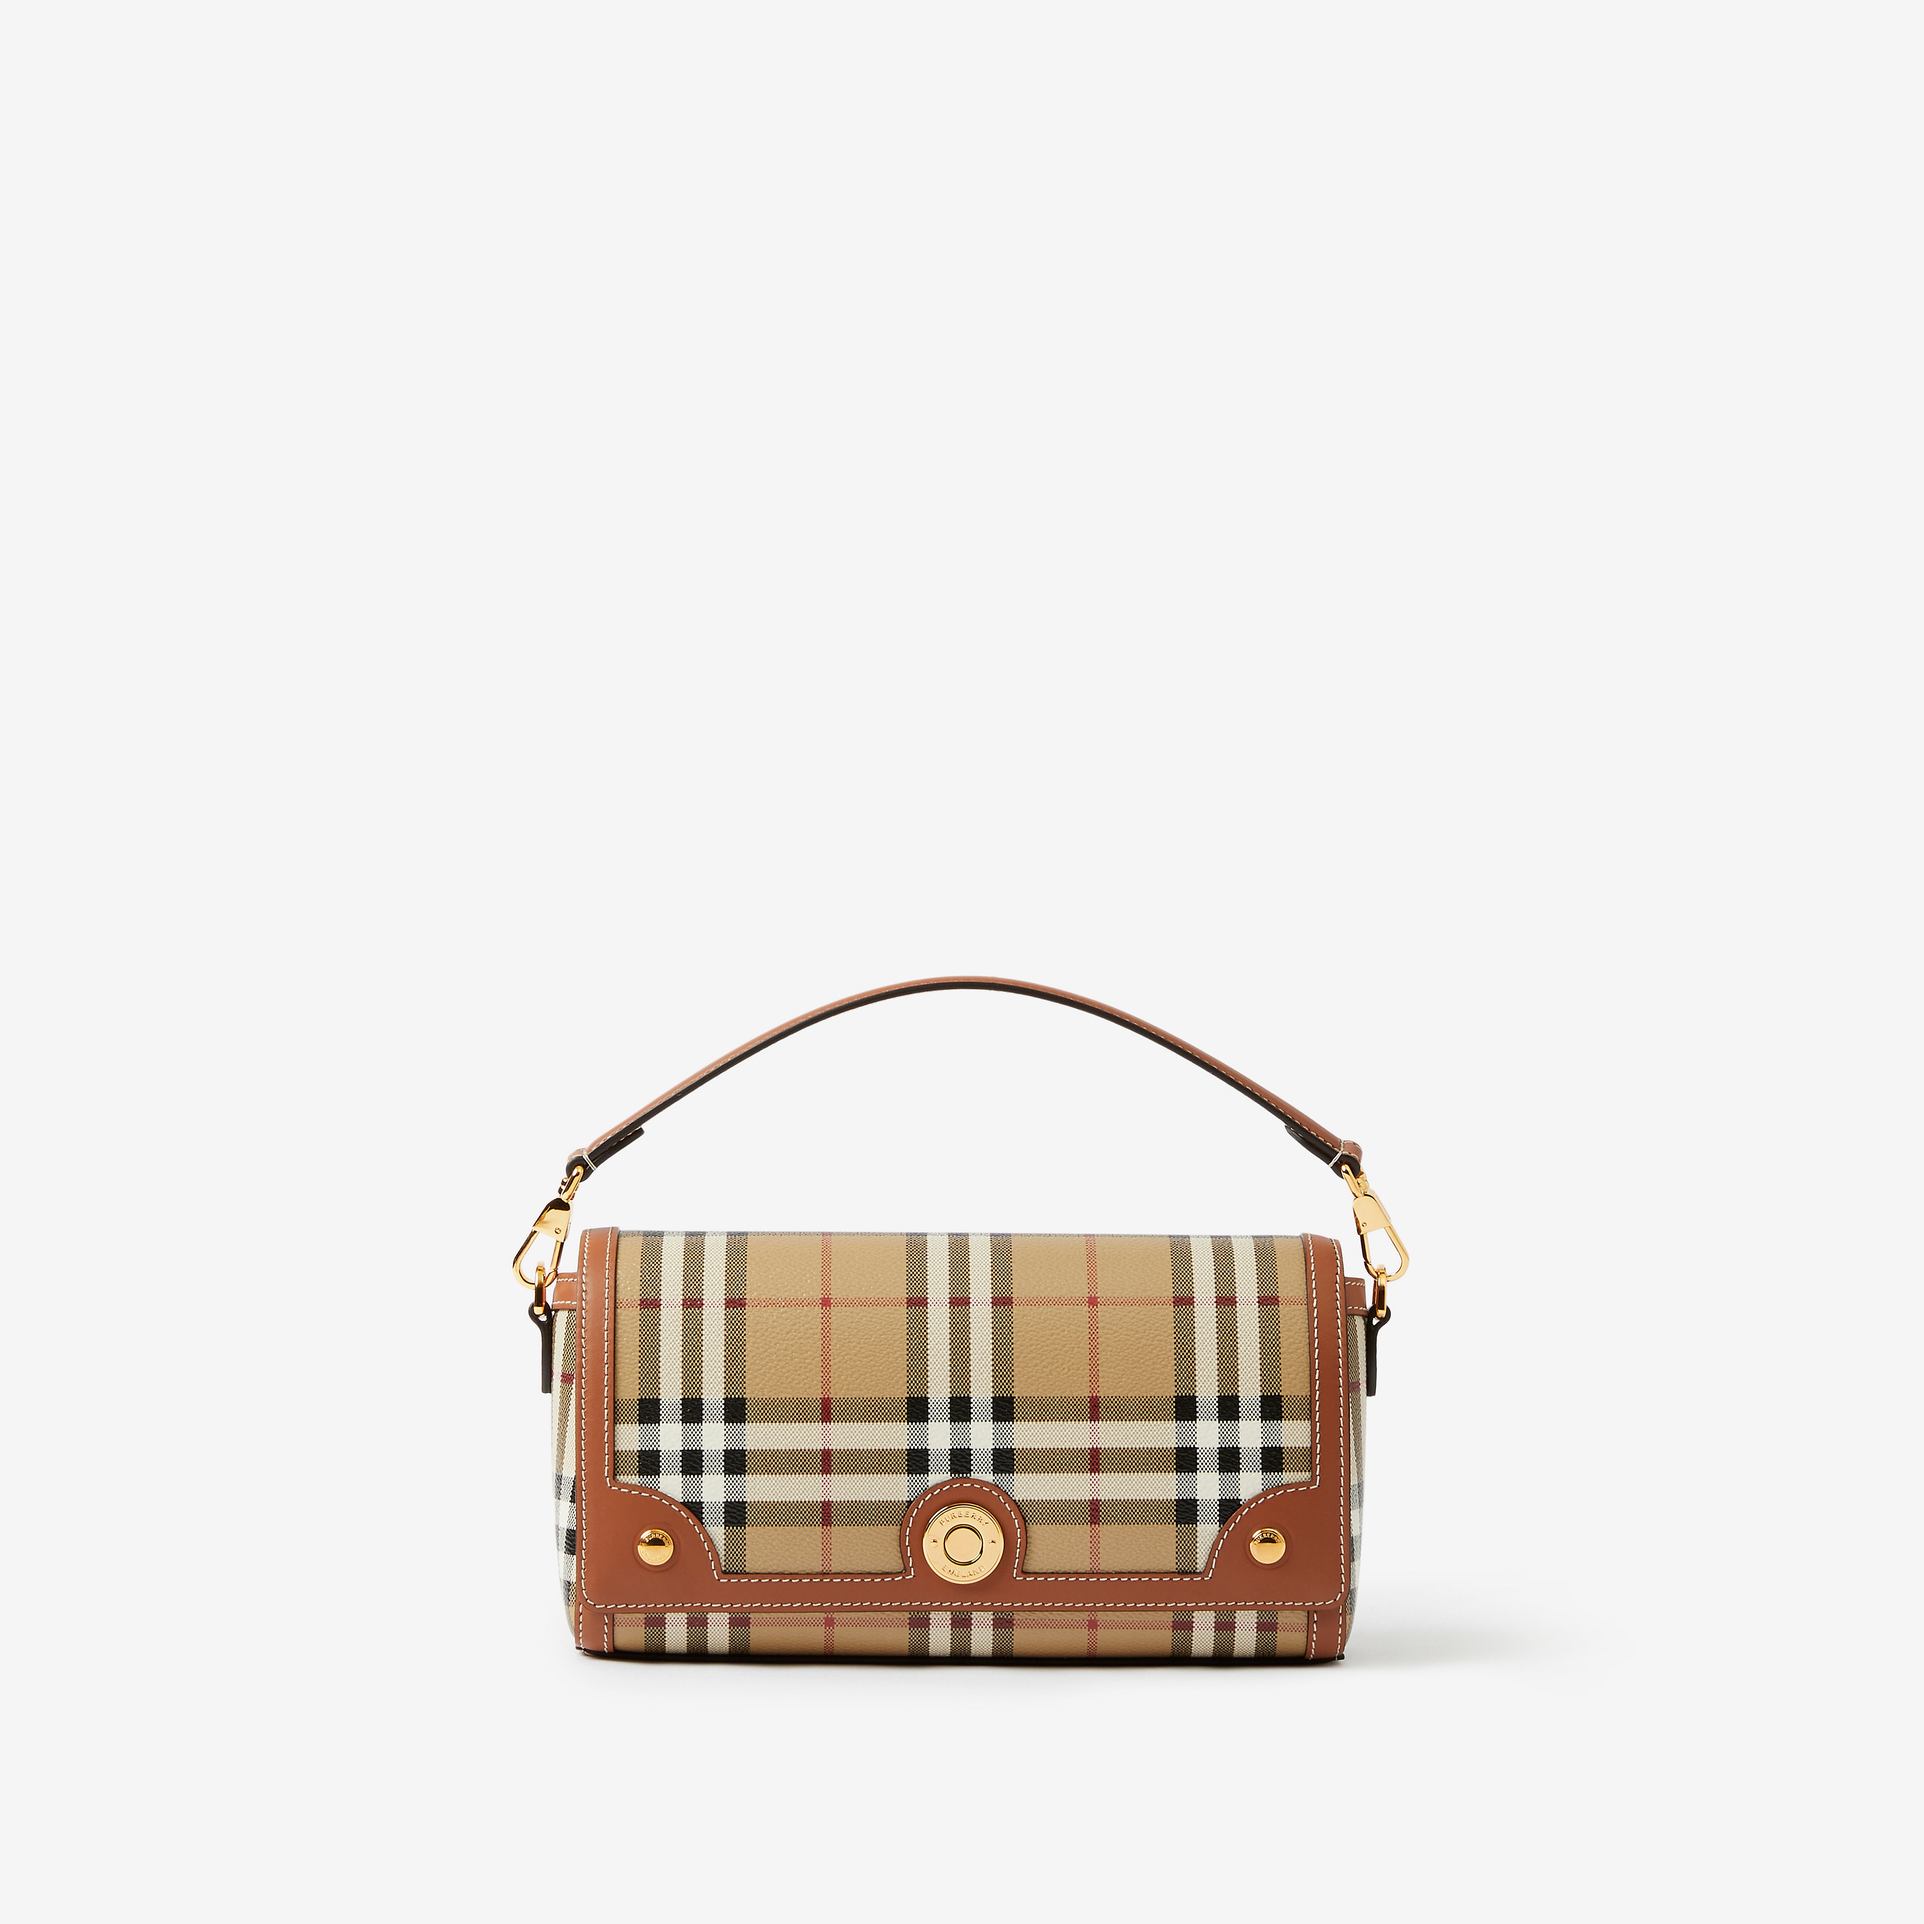
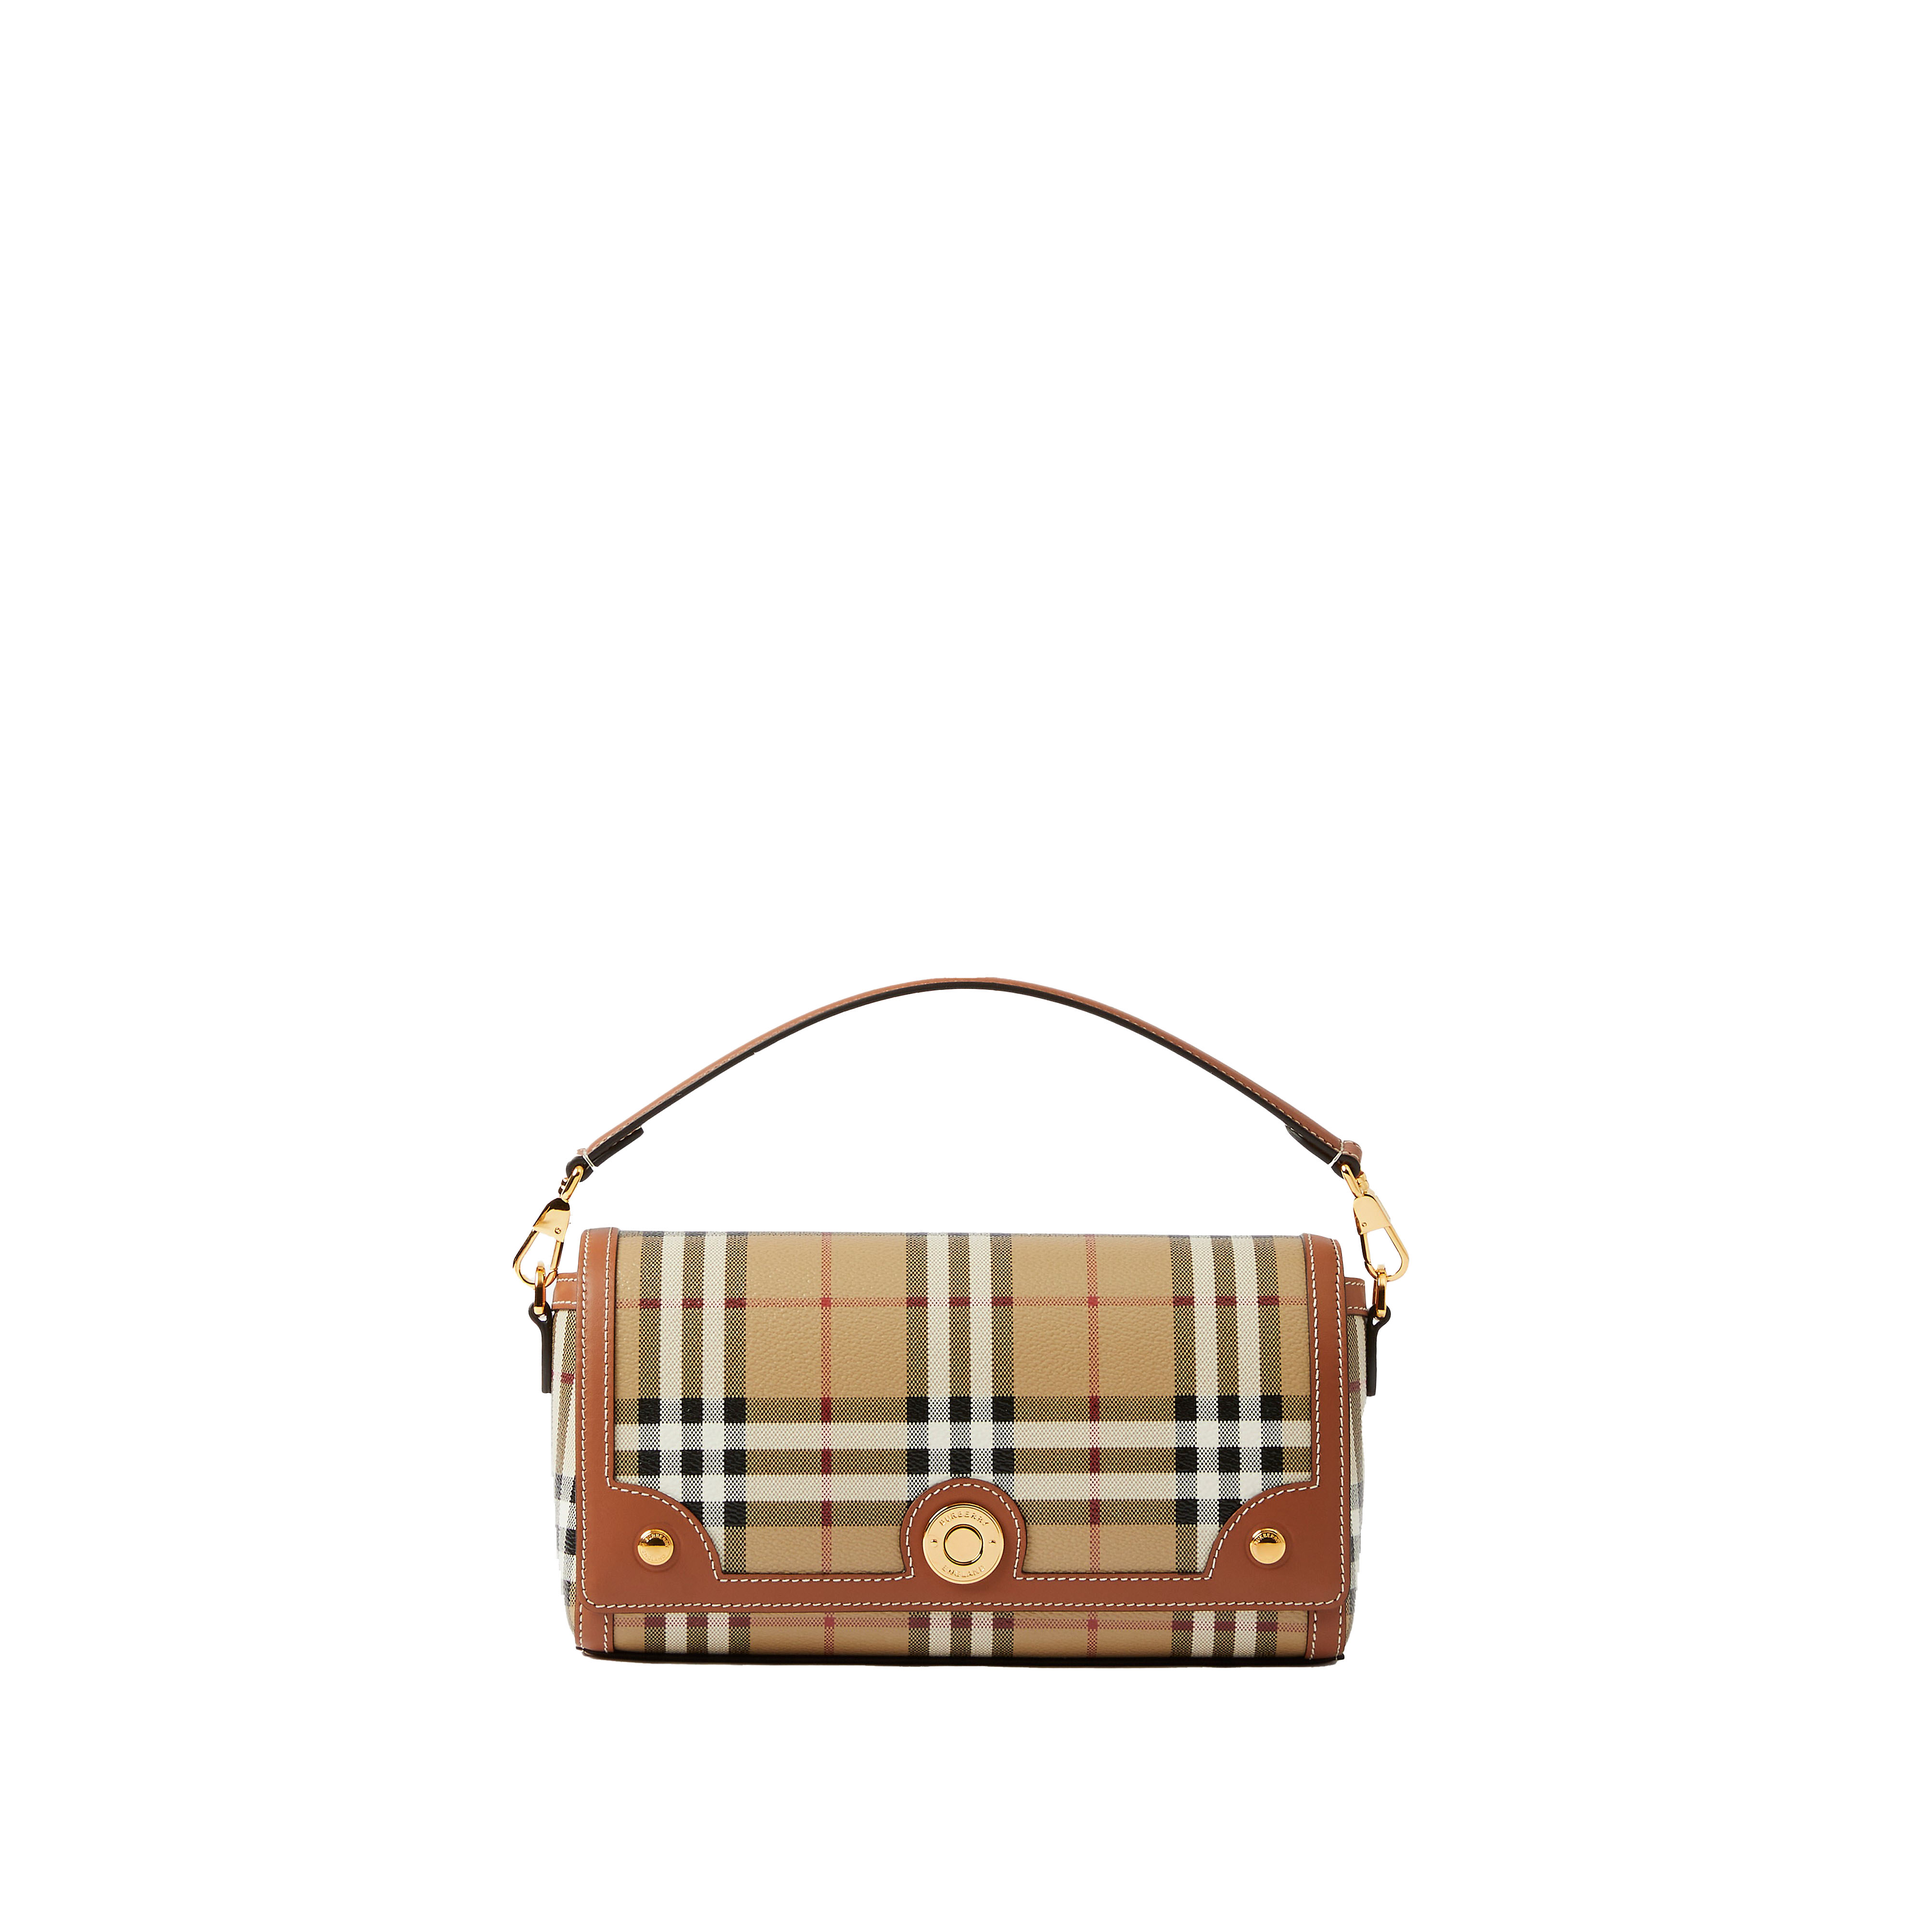
whitening of some photo backgrounds and change with photo link so that it will link with the new one

Changed region(s): [[0.3125, 0.8438, 0.7812, 0.875]]

diff --git a/wallet.html b/wallet.html
@@ -168,9 +168,9 @@
                         <div class="onsale ">
                             <span class="badge rounded-0"><i class="fa-solid fa-arrow-down-long"></i> 23%</span>
                         </div>
-                            <img src="photos/Check Wallet with Chain Strap.jpeg" alt="BackPack" class="img-fluid">
+                            <img src="photos/Check Wallet with Chain Strap.jpg" alt="BackPack" class="img-fluid">
                             <div class="cart-btn">
-                                <button class="btn btn-white shadow-sm rounded-pill" onclick="addToCart('Check Wallet with Chain Strap', 1050, 'photos/Check Wallet with Chain Strap.jpeg')">
+                                <button class="btn btn-white shadow-sm rounded-pill" onclick="addToCart('Check Wallet with Chain Strap', 1050, 'photos/Check Wallet with Chain Strap.jpg')">
                                     <svg xmlns="http://www.w3.org/2000/svg" height="16" width="18" viewBox="0 0 576 512"><!--!Font Awesome Free 6.5.1 by @fontawesome - https://fontawesome.com License - https://fontawesome.com/license/free Copyright 2024 Fonticons, Inc.--><path d="M0 24C0 10.7 10.7 0 24 0H69.5c22 0 41.5 12.8 50.6 32h411c26.3 0 45.5 25 38.6 50.4l-41 152.3c-8.5 31.4-37 53.3-69.5 53.3H170.7l5.4 28.5c2.2 11.3 12.1 19.5 23.6 19.5H488c13.3 0 24 10.7 24 24s-10.7 24-24 24H199.7c-34.6 0-64.3-24.6-70.7-58.5L77.4 54.5c-.7-3.8-4-6.5-7.9-6.5H24C10.7 48 0 37.3 0 24zM128 464a48 48 0 1 1 96 0 48 48 0 1 1 -96 0zm336-48a48 48 0 1 1 0 96 48 48 0 1 1 0-96z"/></svg> Add to Cart</button>
                             </div>
                     </div>

diff --git a/handbag.html b/handbag.html
@@ -168,9 +168,9 @@
                         <div class="onsale ">
                             <span class="badge rounded-0"><i class="fa-solid fa-arrow-down-long"></i> 15%</span>
                         </div>
-                            <img src="photos/MIRA Shoulder Bag.jpeg" alt="BackPack" class="img-fluid">
+                            <img src="photos/MIRA Shoulder Bag.jpg" alt="BackPack" class="img-fluid">
                             <div class="cart-btn">
-                                <button class="btn btn-white shadow-sm rounded-pill" onclick="addToCart('MIRA Shoulder Bag', 750, 'photos/MIRA Shoulder Bag.jpeg')">
+                                <button class="btn btn-white shadow-sm rounded-pill" onclick="addToCart('MIRA Shoulder Bag', 750, 'photos/MIRA Shoulder Bag.jpg')">
                                     <svg xmlns="http://www.w3.org/2000/svg" height="16" width="18" viewBox="0 0 576 512"><!--!Font Awesome Free 6.5.1 by @fontawesome - https://fontawesome.com License - https://fontawesome.com/license/free Copyright 2024 Fonticons, Inc.--><path d="M0 24C0 10.7 10.7 0 24 0H69.5c22 0 41.5 12.8 50.6 32h411c26.3 0 45.5 25 38.6 50.4l-41 152.3c-8.5 31.4-37 53.3-69.5 53.3H170.7l5.4 28.5c2.2 11.3 12.1 19.5 23.6 19.5H488c13.3 0 24 10.7 24 24s-10.7 24-24 24H199.7c-34.6 0-64.3-24.6-70.7-58.5L77.4 54.5c-.7-3.8-4-6.5-7.9-6.5H24C10.7 48 0 37.3 0 24zM128 464a48 48 0 1 1 96 0 48 48 0 1 1 -96 0zm336-48a48 48 0 1 1 0 96 48 48 0 1 1 0-96z"/></svg> Add to Cart</button>
                             </div>
                     </div>

diff --git a/rewards.html b/rewards.html
@@ -168,9 +168,9 @@
                         <div class="onsale ">
                             <span class="badge rounded-0"><i class="fa-solid fa-arrow-down-long"></i> 15%</span>
                         </div>
-                            <img src="photos/MIRA Shoulder Bag.jpeg" alt="BackPack" class="img-fluid">
+                            <img src="photos/MIRA Shoulder Bag.jpg" alt="BackPack" class="img-fluid">
                             <div class="cart-btn">
-                                <button class="btn btn-white shadow-sm rounded-pill" onclick="addToCart('MIRA Shoulder Bag', 750, 'photos/MIRA Shoulder Bag.jpeg')">
+                                <button class="btn btn-white shadow-sm rounded-pill" onclick="addToCart('MIRA Shoulder Bag', 750, 'photos/MIRA Shoulder Bag.jpg')">
                                     <svg xmlns="http://www.w3.org/2000/svg" height="16" width="18" viewBox="0 0 576 512"><!--!Font Awesome Free 6.5.1 by @fontawesome - https://fontawesome.com License - https://fontawesome.com/license/free Copyright 2024 Fonticons, Inc.--><path d="M0 24C0 10.7 10.7 0 24 0H69.5c22 0 41.5 12.8 50.6 32h411c26.3 0 45.5 25 38.6 50.4l-41 152.3c-8.5 31.4-37 53.3-69.5 53.3H170.7l5.4 28.5c2.2 11.3 12.1 19.5 23.6 19.5H488c13.3 0 24 10.7 24 24s-10.7 24-24 24H199.7c-34.6 0-64.3-24.6-70.7-58.5L77.4 54.5c-.7-3.8-4-6.5-7.9-6.5H24C10.7 48 0 37.3 0 24zM128 464a48 48 0 1 1 96 0 48 48 0 1 1 -96 0zm336-48a48 48 0 1 1 0 96 48 48 0 1 1 0-96z"/></svg> Add to Cart</button>
                             </div>
                     </div>
